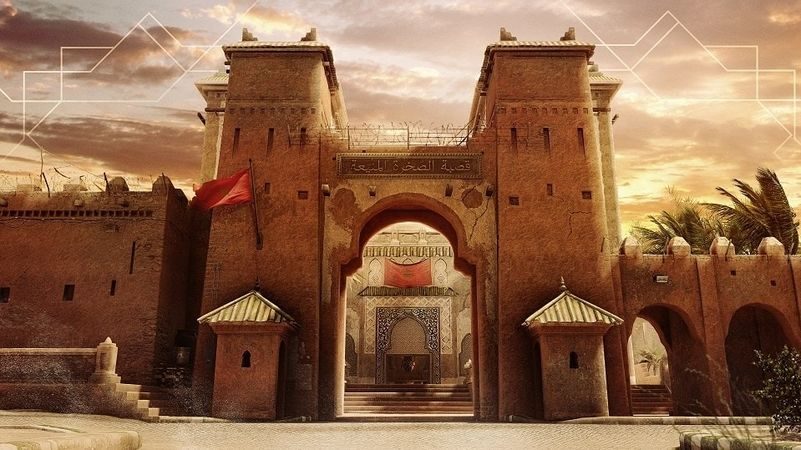
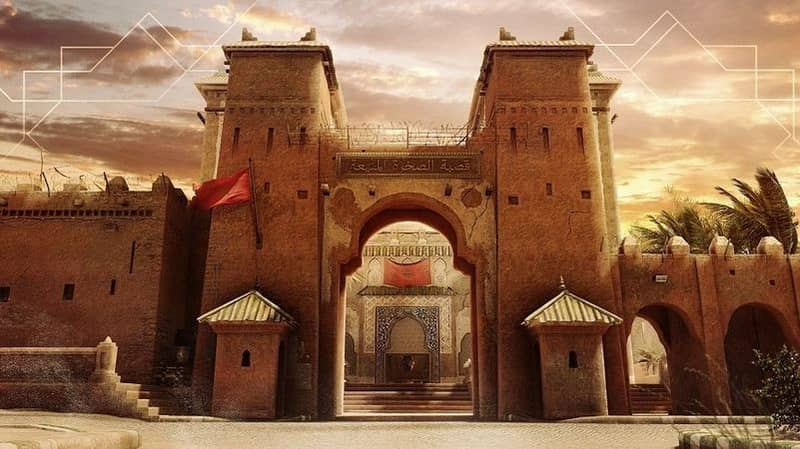
Reduction des images

Changed region(s): [[0.9688, 0.9042, 1.0, 0.9666], [0.5625, 0.2806, 0.5938, 0.3118], [0.2812, 0.6548, 0.3125, 0.686]]

diff --git a/r6-tracker/scripts/resize-images.js b/r6-tracker/scripts/resize-images.js
@@ -1,0 +1,268 @@
+#!/usr/bin/env node
+/*
+  Resize and recompress images sequentially.
+
+  Usage examples:
+    node scripts/resize-images.js --dir public/images --max-edge 800 --quality 70 --in-place
+
+  Notes:
+    - Requires the `sharp` package: npm i -D sharp
+*/
+
+const fs = require('fs');
+const path = require('path');
+
+function fail(msg, code = 1) {
+  console.error(msg);
+  process.exit(code);
+}
+
+// Try to load sharp and give a helpful error if missing
+let sharp;
+try {
+  sharp = require('sharp');
+} catch (e) {
+  fail(
+    '\n[resize-images] Le module "sharp" est requis.\n' +
+      'Installez-le dans le dossier r6-tracker:\n' +
+      '  npm i -D sharp\n\n' +
+      `Détail: ${e.message}`
+  );
+}
+
+function parseArgs() {
+  const args = process.argv.slice(2);
+  const out = {};
+  for (let i = 0; i < args.length; i++) {
+    const a = args[i];
+    if (!a.startsWith('--')) continue;
+    const key = a.replace(/^--/, '');
+    const next = args[i + 1];
+    const isBool = next === undefined || next.startsWith('--');
+    if (['in-place', 'recursive', 'dry-run', 'force', 'skip-if-larger'].includes(key)) {
+      out[key] = true;
+    } else if (!isBool) {
+      out[key] = next;
+      i++;
+    } else {
+      out[key] = true; // boolean flag without explicit value
+    }
+  }
+  return out;
+}
+
+function toInt(val, def) {
+  const n = Number.parseInt(val, 10);
+  return Number.isFinite(n) ? n : def;
+}
+
+function isHidden(p) {
+  return path.basename(p).startsWith('.');
+}
+
+function listFilesRecursive(root, exts) {
+  const files = [];
+  const stack = [root];
+  while (stack.length) {
+    const dir = stack.pop();
+    let entries = [];
+    try {
+      entries = fs.readdirSync(dir, { withFileTypes: true });
+    } catch (e) {
+      console.warn('[skip]', dir, '-', e.message);
+      continue;
+    }
+    for (const ent of entries) {
+      if (isHidden(ent.name)) continue;
+      const full = path.join(dir, ent.name);
+      if (ent.isDirectory()) {
+        stack.push(full);
+      } else if (ent.isFile()) {
+        const ext = path.extname(ent.name).toLowerCase().replace(/^\./, '');
+        if (exts.has(ext)) files.push(full);
+      }
+    }
+  }
+  return files;
+}
+
+function ensureDir(p) {
+  fs.mkdirSync(p, { recursive: true });
+}
+
+async function processOne(file, opts, rootDir, outDir) {
+  const rel = path.relative(rootDir, file);
+  const dir = path.dirname(rel);
+  const ext = path.extname(file); // preserve original extension
+  const base = path.basename(file, ext);
+
+  const srcStat = fs.statSync(file);
+  const srcBytes = srcStat.size;
+
+  const img = sharp(file, { failOn: 'none' });
+  const meta = await img.metadata();
+
+  const srcW = meta.width || null;
+  const srcH = meta.height || null;
+
+  const maxW = opts.maxWidth || opts.maxEdge || null;
+  const maxH = opts.maxHeight || opts.maxEdge || null;
+
+  const needResize =
+    (!!maxW && srcW && srcW > maxW) || (!!maxH && srcH && srcH > maxH);
+
+  if (!needResize && !opts.force) {
+    if (opts.verbose) console.log('[skip small]', rel);
+    return { file, rel, skipped: true };
+  }
+
+  let pipeline = sharp(file, { failOn: 'none' });
+  if (needResize) {
+    pipeline = pipeline.resize({
+      width: maxW || undefined,
+      height: maxH || undefined,
+      fit: 'inside',
+      withoutEnlargement: true,
+      fastShrinkOnLoad: true,
+    });
+  }
+
+  const fmt = (meta.format || ext.replace('.', '')).toLowerCase();
+  if (fmt === 'jpeg' || fmt === 'jpg') {
+    pipeline = pipeline.jpeg({
+      quality: opts.quality,
+      mozjpeg: true,
+      chromaSubsampling: '4:2:0',
+    });
+  } else if (fmt === 'png') {
+    pipeline = pipeline.png({
+      compressionLevel: 9,
+      effort: 7,
+      palette: false, // set true if you want indexed-color reduction
+    });
+  } else if (fmt === 'webp') {
+    pipeline = pipeline.webp({ 
+      quality: opts.quality,
+      effort: 6,
+    });
+  } else if (fmt === 'avif') {
+    pipeline = pipeline.avif({ 
+      quality: Math.max(30, Math.min(95, opts.quality)),
+      effort: 4,
+    });
+  } else {
+    // Pour les autres formats, utiliser toFormat avec options minimales
+    try {
+      pipeline = pipeline.toFormat(fmt);
+    } catch (e) {
+      console.warn(`Format non supporté: ${fmt}, conversion en PNG`);
+      pipeline = pipeline.png({ compressionLevel: 9 });
+    }
+  }
+
+  const isInPlace = opts.inPlace;
+  let outPath;
+  if (isInPlace) {
+    outPath = file + `.tmp-${process.pid}`;
+  } else {
+    const suffix = opts.suffix ? String(opts.suffix) : '';
+    outPath = path.join(outDir, dir, `${base}${suffix}${ext}`);
+    ensureDir(path.dirname(outPath));
+  }
+
+  if (opts.dryRun) {
+    console.log('[dry]', rel, '->', path.relative(rootDir, outPath));
+    return { file, rel, dryRun: true };
+  }
+
+  await pipeline.toFile(outPath);
+  const outBytes = fs.statSync(outPath).size;
+
+  if (isInPlace) {
+    const skipIfLarger = opts.skipIfLarger;
+    const smaller = outBytes < srcBytes;
+    if (skipIfLarger && !smaller) {
+      // Do not replace if larger or equal
+      fs.unlinkSync(outPath);
+      if (opts.verbose) console.log('[kept original]', rel, `(${fmt})`);
+      return { file, rel, keptOriginal: true, srcBytes, outBytes };
+    }
+    // Replace original atomically
+    fs.renameSync(outPath, file);
+  }
+
+  return { file, rel, srcBytes, outBytes };
+}
+
+async function main() {
+  const argv = parseArgs();
+
+  const opts = {
+    dir: path.resolve(process.cwd(), argv.dir || 'public/images'),
+    out: argv.out ? path.resolve(process.cwd(), argv.out) : null,
+    inPlace: Boolean(argv['in-place'] || (!argv.out)),
+    recursive: true, // always recursive
+    dryRun: Boolean(argv['dry-run'] || false),
+    force: Boolean(argv['force'] || false),
+    skipIfLarger: argv['skip-if-larger'] !== undefined ? Boolean(argv['skip-if-larger']) : true,
+    quality: toInt(argv.quality, 80),
+    maxWidth: toInt(argv['max-width'], undefined),
+    maxHeight: toInt(argv['max-height'], undefined),
+    maxEdge: toInt(argv['max-edge'], undefined),
+    suffix: argv.suffix || '',
+    verbose: Boolean(argv.verbose || false),
+    formats: (argv.formats || 'jpg,jpeg,png,webp,avif')
+      .split(',')
+      .map((s) => s.trim().toLowerCase())
+      .filter(Boolean),
+  };
+
+  if (!fs.existsSync(opts.dir) || !fs.statSync(opts.dir).isDirectory()) {
+    fail(`[resize-images] Dossier introuvable: ${opts.dir}`);
+  }
+
+  if (!opts.inPlace) {
+    if (!opts.out) fail('[resize-images] Veuillez préciser --out ou utilisez --in-place');
+    ensureDir(opts.out);
+  }
+
+  if (!opts.maxWidth && !opts.maxHeight && !opts.maxEdge && !opts.force) {
+    console.log('[info] Aucun max défini; utilisez --max-edge 1600 par ex.');
+  }
+
+  const exts = new Set(opts.formats);
+  const all = listFilesRecursive(opts.dir, exts);
+  if (all.length === 0) {
+    console.log('[resize-images] Aucune image trouvée.');
+    return;
+  }
+
+  console.log(`[resize-images] ${all.length} image(s) à traiter…`);
+  let processed = 0;
+  let savedTotal = 0;
+
+  for (const file of all) {
+    try {
+      const outDir = opts.out || opts.dir;
+      const res = await processOne(file, opts, opts.dir, outDir);
+      if (res.skipped || res.dryRun) {
+        // nothing
+      } else if (res.keptOriginal) {
+        const delta = res.outBytes - res.srcBytes;
+        if (opts.verbose) console.log('[no gain]', res.rel, '+', delta, 'bytes');
+      } else {
+        processed++;
+        const saved = (res.srcBytes || 0) - (res.outBytes || 0);
+        savedTotal += Math.max(0, saved);
+        const pct = res.srcBytes ? Math.round((1 - (res.outBytes / res.srcBytes)) * 100) : 0;
+        console.log(`✔ ${res.rel}  ${Math.round((res.srcBytes || 0)/1024)}KB → ${Math.round((res.outBytes || 0)/1024)}KB (-${pct}%)`);
+      }
+    } catch (e) {
+      console.warn('✖ Erreur:', path.relative(opts.dir, file), '-', e.message);
+    }
+  }
+
+  console.log(`\n[resize-images] Terminé. Fichiers modifiés: ${processed}. Gain total ~${Math.round(savedTotal/1024)}KB.`);
+}
+
+main().catch((e) => fail(e.stack || e.message));
